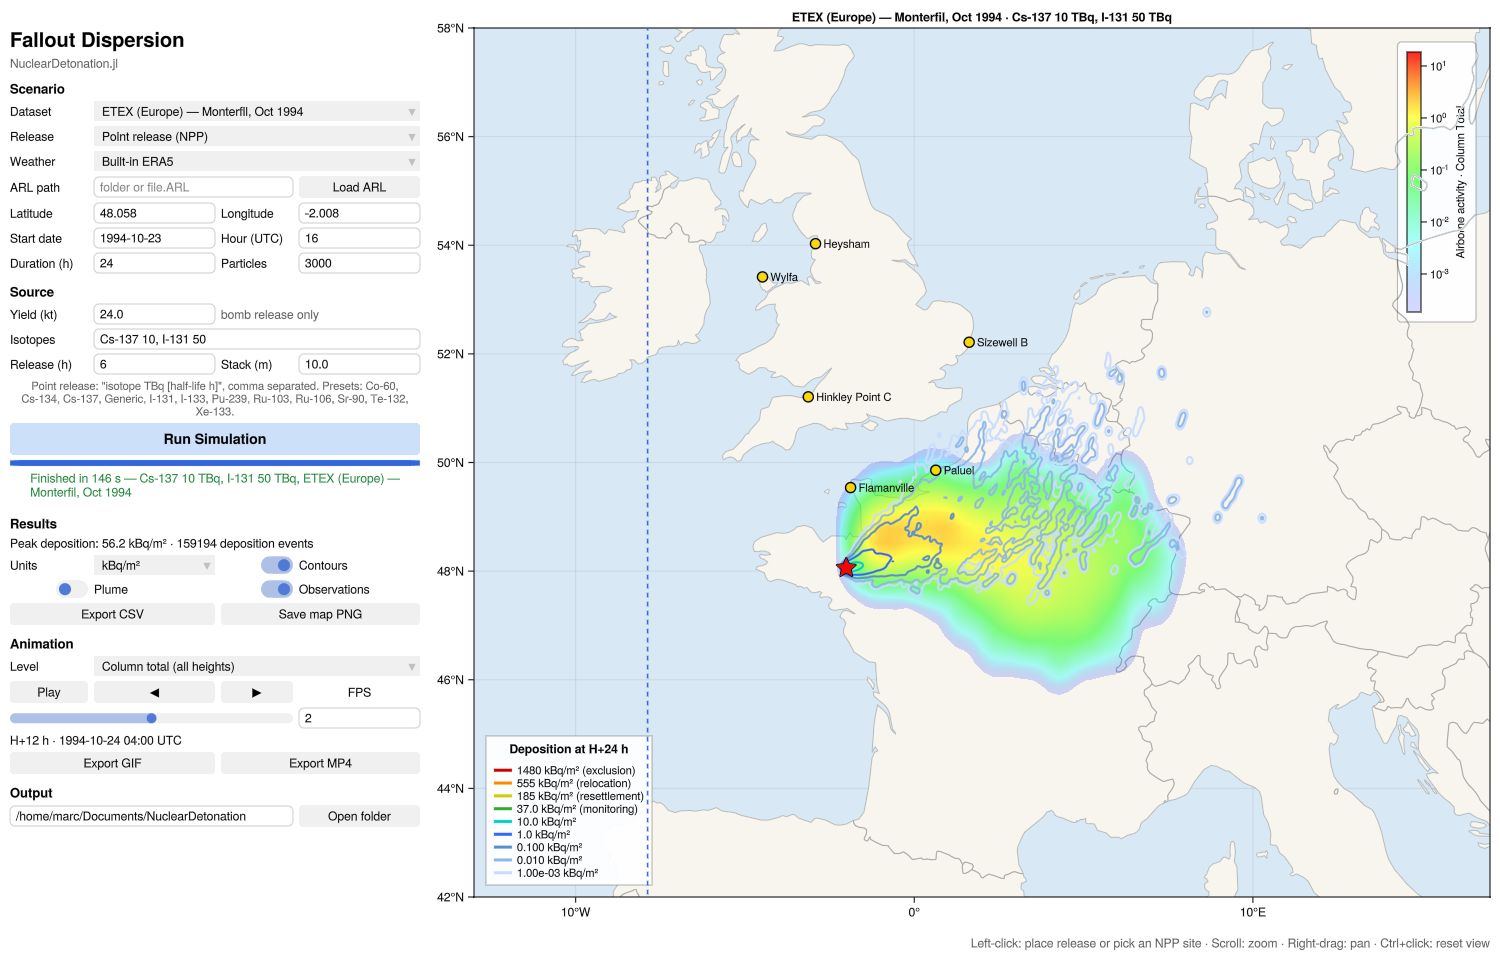
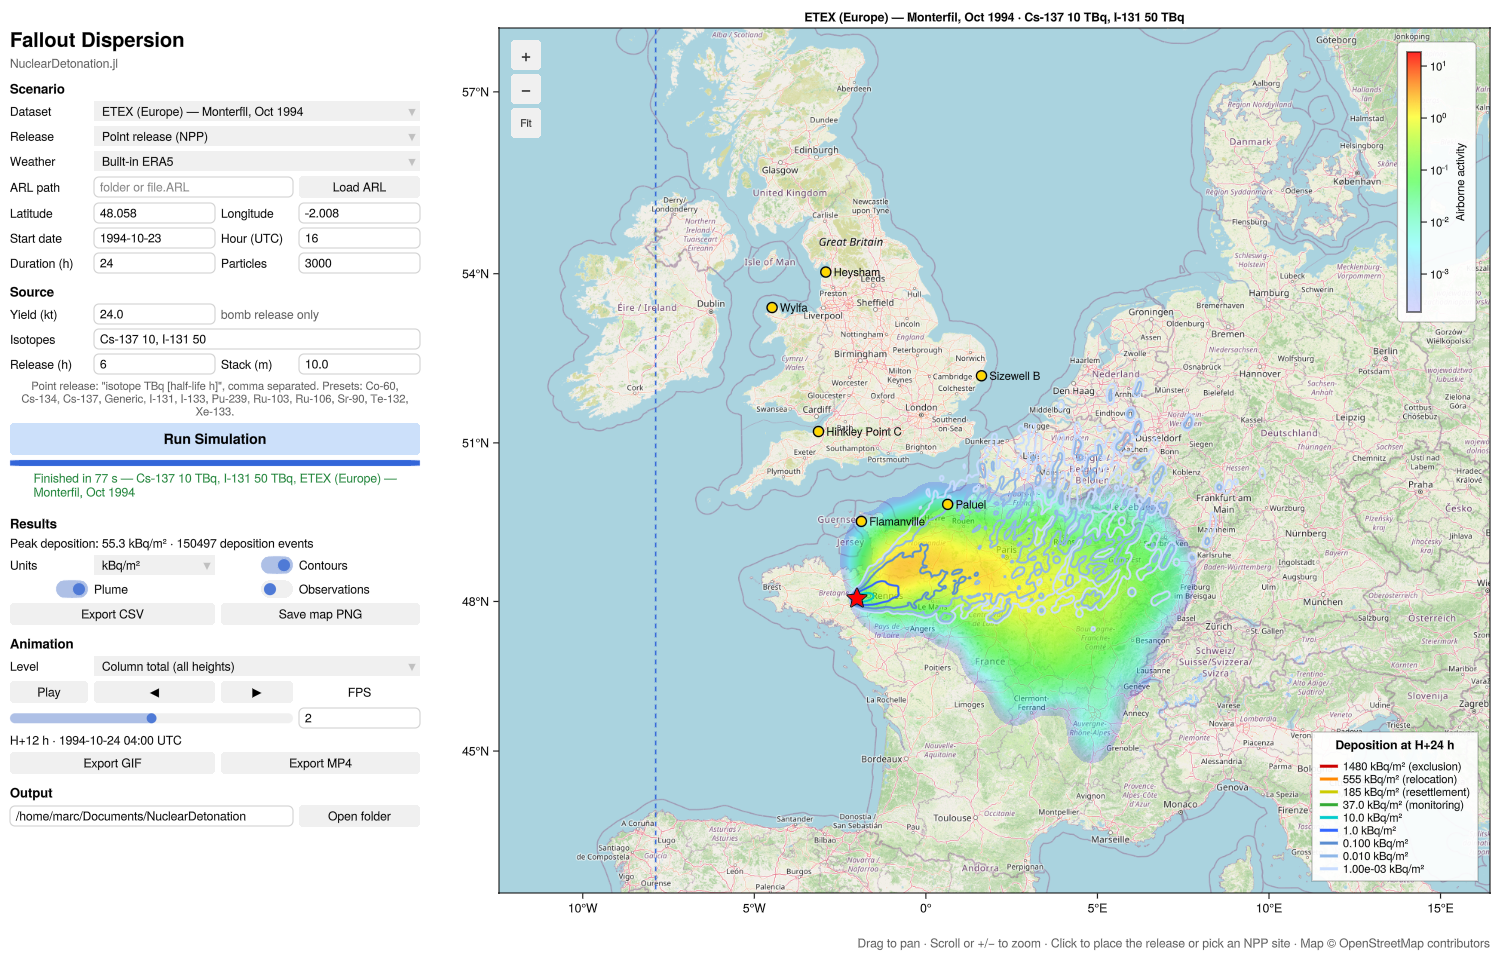
Use OpenStreetMap tiles and drag-to-pan on the GUI map
The map was 1:50m country outlines and panned with the right mouse button.
It now shows OpenStreetMap tiles via Tyler.jl in Web Mercator, like the old
Leaflet map: drag to pan, scroll or +/- to zoom, Fit to return to the weather
domain, and a click without dragging places the release. The Natural Earth
outlines stay underneath for when there's no internet.

- Tile requests send the app's own User-Agent; OSM blocks Julia's default
  one with an "Access blocked" tile. Downloads time out after 15 s instead
  of Tyler's 3 s, which never retries a failed tile.
- Tick label space is fixed: degree labels changing width while zooming
  resized the aspect-locked axis, which changed the ticks again and
  recursed until the stack overflowed.
- Plume frames are resampled onto Mercator rows; contours, observations and
  markers are projected.
- Exports render once before saving so tiles are loaded, and the export
  legend sits beside the map instead of over the plume.
- CARTO tiles, which the old web map used, now need an API key.

diff --git a/gui/README.md b/gui/README.md
@@ -14,11 +14,21 @@ The window opens straight away and loads the built-in ERA5 data in the
 background. The `--threads=2` flag runs simulations on a worker thread so the
 window stays responsive.
 
-Left-click the map to place the release, or click one of the NPP sites. Scroll
-to zoom, right-drag to pan, and Ctrl+click to reset the view. Exports (CSV, PNG,
+Drag the map to pan, and scroll or use the +/− buttons to zoom; Fit returns to
+the weather domain. Click the map to place the release, or click one of the NPP
+sites. Exports (CSV, PNG,
 GIF, MP4) go to the output folder shown at the bottom of the panel, which
 defaults to `Documents/NuclearDetonation`. Errors are also written to
 `error.log` there.
+
+## Map
+
+The basemap is OpenStreetMap's standard tiles, fetched as you pan and zoom, so
+it needs internet. Requests identify the app with its own User-Agent, as OSM's
+[tile usage policy](https://operations.osmfoundation.org/policies/tiles/)
+requires; the policy is fine with light use like this but not bulk downloading.
+Offline, Natural Earth country outlines bundled in `data/naturalearth/` show
+instead. To change provider, edit `gui/src/tiles.jl`.
 
 ## Point-release source terms
 
@@ -51,7 +61,8 @@ without GPU drivers, put Mesa's software `opengl32.dll` next to the executable.
 | `gui/src/window.jl` | Window layout, map layers, callbacks and exports |
 | `gui/src/simulation.jl` | Wraps the transport core: bomb and point-release setups |
 | `gui/src/animation.jl` | Plume animation frames per model level |
-| `gui/src/basemap.jl` | Natural Earth country outlines for the map |
+| `gui/src/tiles.jl` | OpenStreetMap tile provider for the map |
+| `gui/src/basemap.jl` | Offline Natural Earth country outlines under the tiles |
 | `gui/src/observations.jl` | Nancy and ETEX observation overlays |
 | `gui/src/prediction.jl` | XGBoost impact prediction for NPP sites |
 | `gui/src/arl_reader.jl`, `arl_converter.jl` | ARL weather files → ERA5-layout NetCDF |

diff --git a/README.md b/README.md
@@ -27,7 +27,7 @@ The GUI supports:
 - **Two release modes**: instantaneous bomb detonations (yield in kT, with the stabilised cloud height scaled from the calibrated Nancy geometry), and point-source releases such as nuclear power plant accidents, spread over a chosen release duration.
 - **Multi-isotope source terms**: for point releases, enter any mix of radionuclides, each with its own activity and an optional custom half-life. Common reactor and fallout isotopes (Cs-137, I-131, Sr-90, Co-60, …) have preset half-lives, and deposits decay per nuclide up to the end of the run.
 - **Built-in and custom weather**: ships with ERA5 reanalysis for the Nevada Test Site (1953) and the ETEX experiment (Europe, 1994). ARL-format weather files can be loaded for other regions and dates.
-- **Dose-rate and deposition contours** on an offline Natural Earth basemap, with switchable display units, plus a time-stepped animation of the plume at any model level.
+- **Dose-rate and deposition contours** on an OpenStreetMap basemap that you drag to pan and scroll to zoom, with switchable display units, plus a time-stepped animation of the plume at any model level. Without internet the map falls back to offline Natural Earth country outlines.
 - **Historical observation overlays**: digitised dose-rate contours from the Nancy test and gridded ETEX measurements, for visual model validation.
 - **Impact prediction**: with ARL weather loaded, clicking a UK or French NPP site runs an XGBoost classifier that predicts whether a release would reach Ireland.
 - **Exports**: deposition events as CSV, the map as PNG, and the animation as GIF or MP4.
